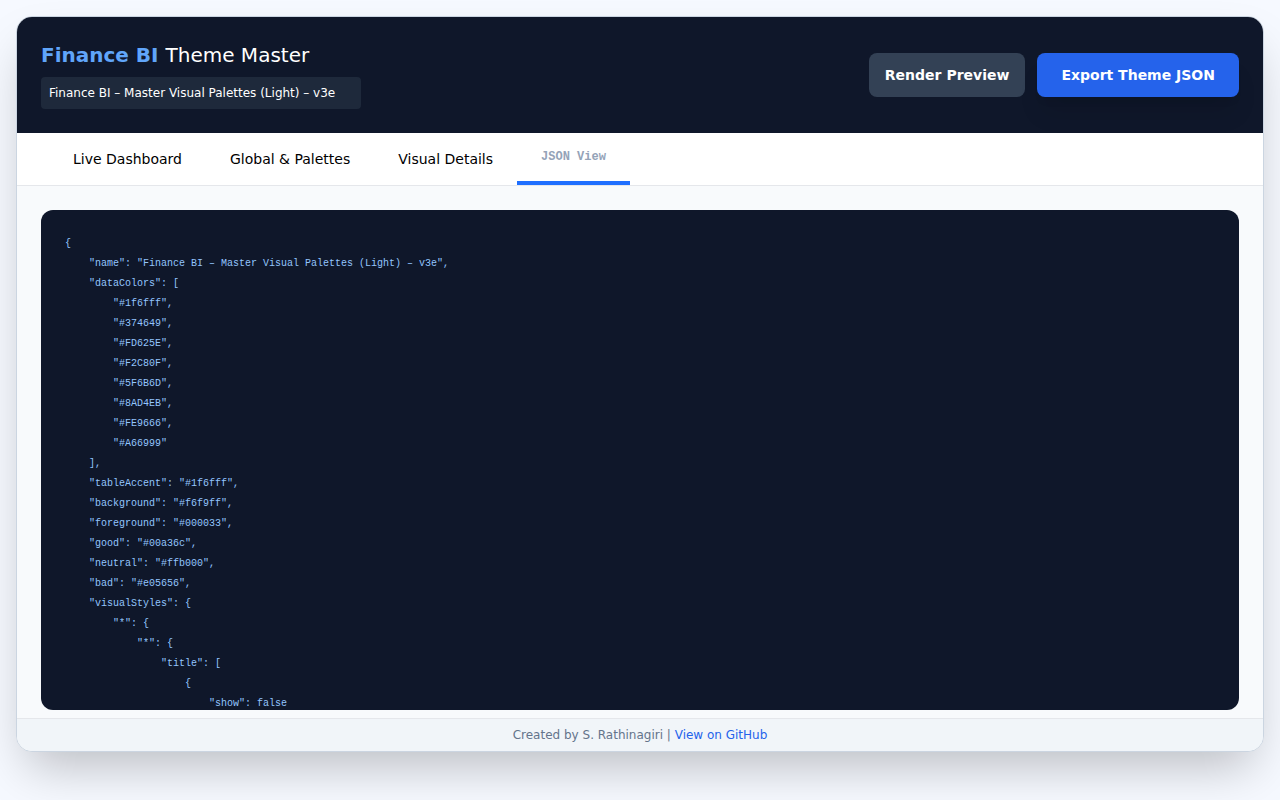
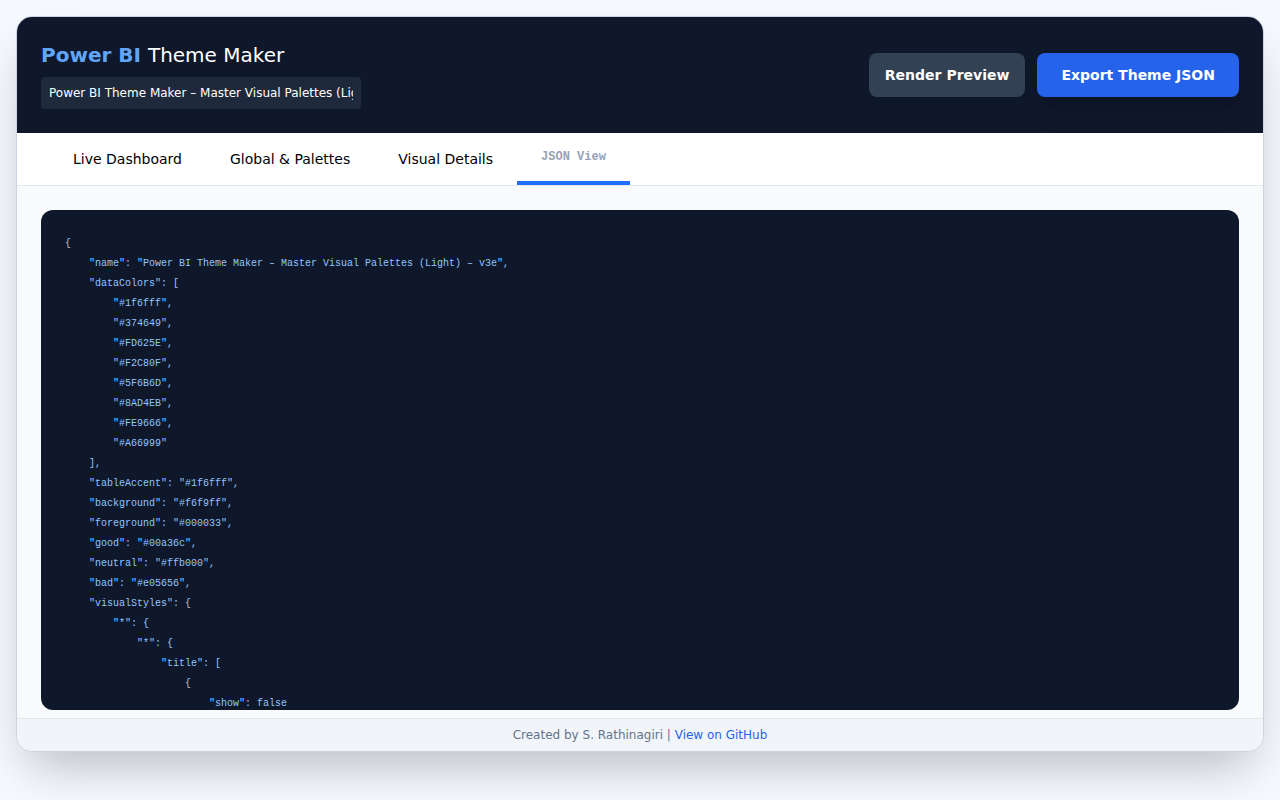
Rebrand project to 'Power BI Theme Maker' and update documentation
- Replaced all instances of "Finance BI Master Theme" and "Finance BI" with "Power BI Theme Maker" across `README.md`, `ThemeCreator.html`, and `SampleTheme.json`.
- Updated `README.md` with a comprehensive description, screenshots section, and author attribution.
- Added a footer to `ThemeCreator.html` with creator attribution and GitHub link.
- Included updated screenshots (`preview_page.png`, `main_page.png`, `json_page.png`) reflecting the new branding.

Changed region(s): [[0.0312, 0.0625, 0.2812, 0.125], [0.125, 0.3125, 0.4062, 0.3438]]

diff --git a/ThemeCreator.html b/ThemeCreator.html
@@ -2,7 +2,7 @@
 <html lang="en">
 <head>
     <meta charset="UTF-8">
-    <title>Finance BI Master Theme Pro - Validated</title>
+    <title>Power BI Theme Maker - Validated</title>
     <script src="https://cdn.tailwindcss.com"></script>
     <script src="https://cdn.jsdelivr.net/npm/echarts/dist/echarts.min.js"></script>
     <style>
@@ -22,8 +22,8 @@
         
         <div class="bg-slate-900 text-white p-6 flex justify-between items-center">
             <div>
-                <h1 class="text-xl font-black text-blue-400">Finance BI <span class="text-white font-light">Theme Master</span></h1>
-                <input type="text" id="clientName" value="Finance BI – Master Visual Palettes (Light) – v3e" class="bg-slate-800 border-none text-white text-xs w-80 mt-2 p-2 rounded">
+                <h1 class="text-xl font-black text-blue-400">Power BI <span class="text-white font-light">Theme Maker</span></h1>
+                <input type="text" id="clientName" value="Power BI Theme Maker – Master Visual Palettes (Light) – v3e" class="bg-slate-800 border-none text-white text-xs w-80 mt-2 p-2 rounded">
             </div>
             <div class="flex gap-3">
                 <button onclick="updateAll()" class="bg-slate-700 hover:bg-slate-600 px-4 py-3 rounded-lg font-bold text-white transition-all">Render Preview</button>
@@ -530,7 +530,7 @@ function buildTheme(pal, bg, fg, dark, primary, font) {
 
     // FULL 14KB+ SCHEMA (Exact match to LightTheme01.json structure)
     return {
-        "name": document.getElementById('clientName').value || "Finance BI Master Theme v3e",
+        "name": document.getElementById('clientName').value || "Power BI Theme Maker v3e",
         "dataColors": pal,
         "tableAccent": primary,
         "background": bg,
@@ -656,7 +656,7 @@ function downloadJSON() {
         const data = JSON.stringify(obj, null, 4);
         const blob = new Blob([data], {type: "application/json"});
         const a = document.createElement('a'); a.href = URL.createObjectURL(blob);
-        a.download = `FinanceBI_Master_Validated.json`; a.click();
+        a.download = `PowerBIThemeMaker_Validated.json`; a.click();
     } catch(e) {
         alert("Error generating JSON");
     }

diff --git a/README.md b/README.md
@@ -1,10 +1,10 @@
-# Finance BI Master Theme Pro
+# Power BI Theme Maker
 
 A single-file HTML application for generating, customizing, and validating Power BI JSON themes.
 
 ## Description
 
-The **Finance BI Master Theme Pro** is a powerful utility designed to streamline the creation of professional Power BI themes. It allows users to visually design themes, preview them in real-time, and export the resulting JSON configuration for direct import into Power BI.
+The **Power BI Theme Maker** is a powerful utility designed to streamline the creation of professional Power BI themes. It allows users to visually design themes, preview them in real-time, and export the resulting JSON configuration for direct import into Power BI.
 
 The tool focuses on consistency, accessibility, and ease of use, providing automatic color calculations for light and dark modes, ensuring optimal contrast and visual harmony across all report elements.
 
